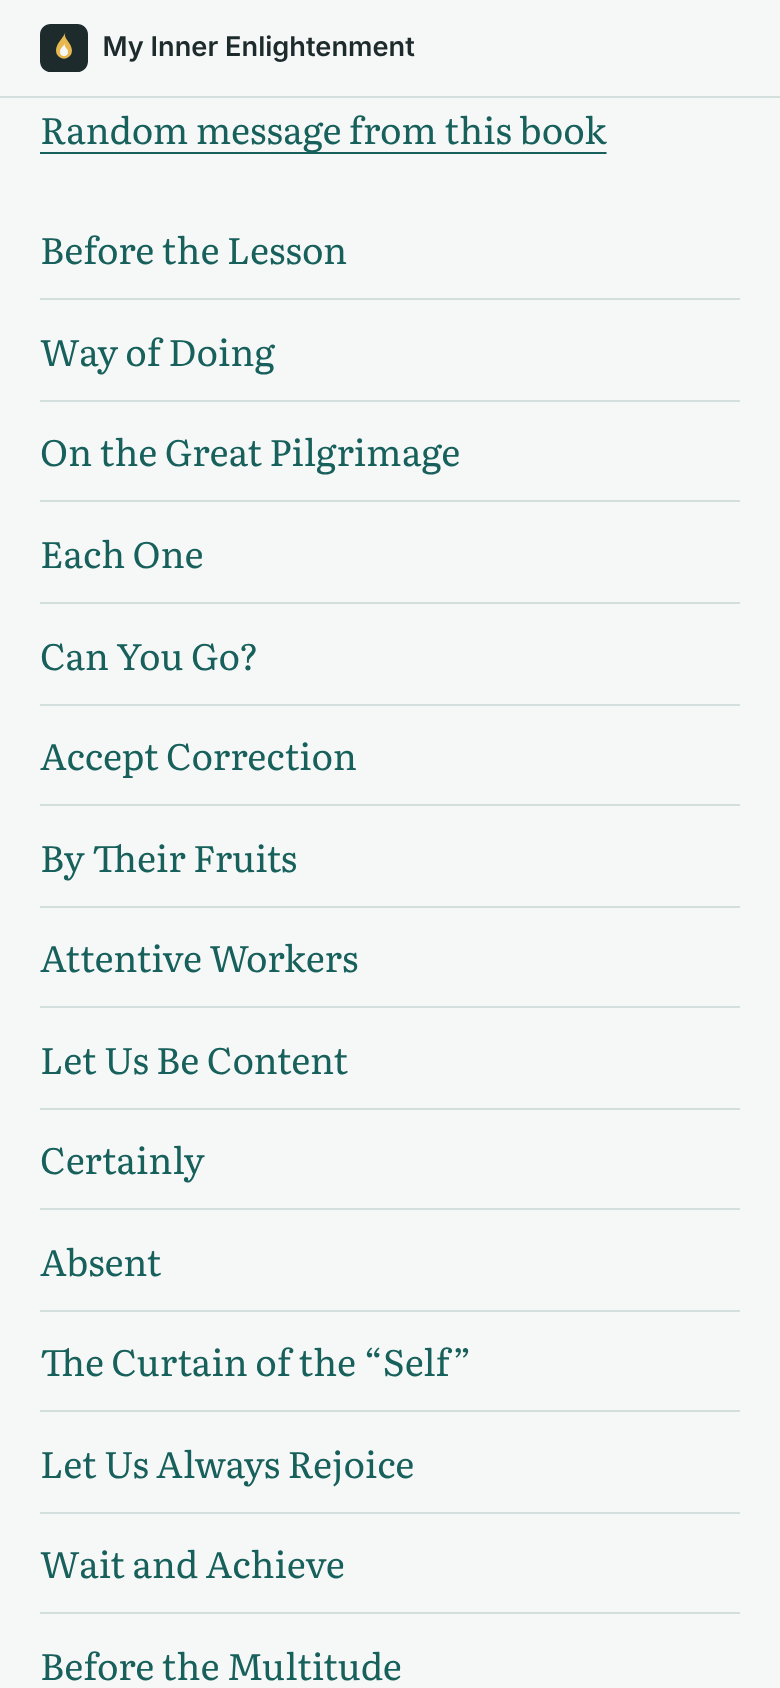
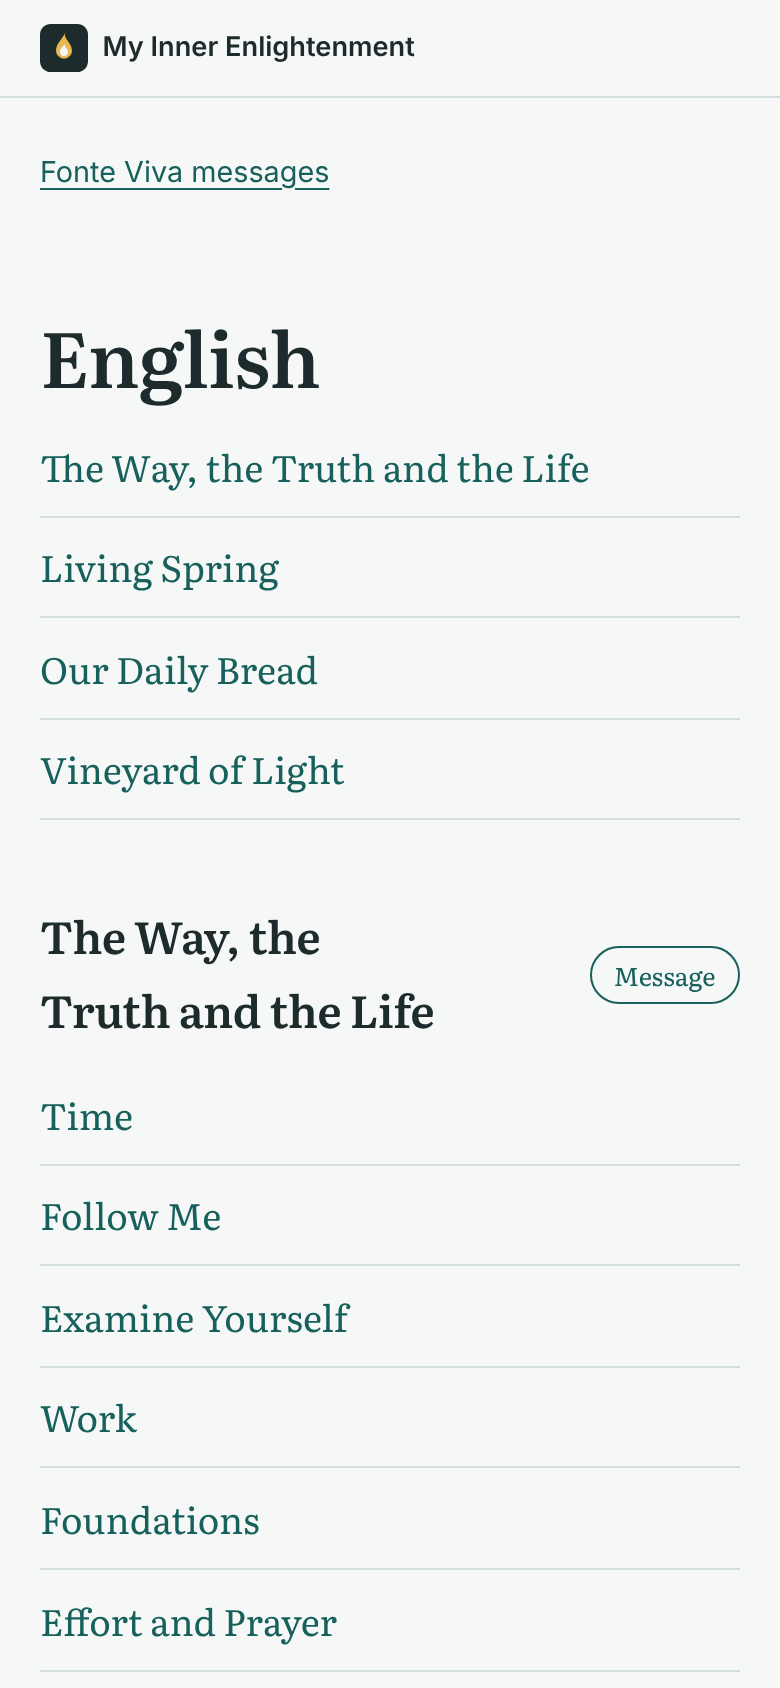
Show a short Message button next to the book name instead of the long random link
Claude-Session: https://claude.ai/code/session_01R4xVcZ5yEyYP9SRpZ91aWh

diff --git a/mobile/App.tsx b/mobile/App.tsx
@@ -330,8 +330,14 @@ export default function App() {
             <Action key={book.slug} title={bookNameIn(settings.language, book.slug)} onPress={() => setIndexBook(book.slug)} main={book.slug === indexBook} />
           ))}
         </View>
-        {indexBook && <Text style={styles.bookTitle}>{bookNameIn(settings.language, indexBook)}</Text>}
-        {indexBook && <Action title={t.randomFromBook} onPress={() => showRandomFromBook(indexBook)} />}
+        {indexBook && (
+          <View style={styles.bookRow}>
+            <Text style={styles.bookTitle}>{bookNameIn(settings.language, indexBook)}</Text>
+            <Pressable accessibilityRole="button" onPress={() => showRandomFromBook(indexBook)} style={styles.randomButton}>
+              <Text style={styles.randomButtonText}>{t.randomMessage}</Text>
+            </Pressable>
+          </View>
+        )}
         {bookMessages.map((m) => (
           <Text
             key={m.id}
@@ -559,6 +565,9 @@ const styles = StyleSheet.create({
   link: { textDecorationLine: 'underline', color: colors.spring },
   disclaimer: { fontSize: 13, color: colors.muted, marginTop: 24 },
   backButton: { marginTop: 32 },
-  bookTitle: { fontFamily: 'Literata_600SemiBold', fontSize: 24, letterSpacing: -0.3, color: colors.ink, marginTop: 36, marginBottom: 8 },
+  bookTitle: { fontFamily: 'Literata_600SemiBold', fontSize: 24, letterSpacing: -0.3, color: colors.ink, flexShrink: 1 },
+  bookRow: { flexDirection: 'row', alignItems: 'center', justifyContent: 'space-between', gap: 12, marginTop: 36, marginBottom: 8 },
+  randomButton: { borderRadius: 16, borderWidth: 1.5, borderColor: colors.spring, paddingVertical: 4, paddingHorizontal: 12 },
+  randomButtonText: { fontSize: 14, fontWeight: '600', color: colors.spring },
   indexItem: { fontFamily: 'Literata_400Regular', fontSize: 18, color: colors.spring, paddingVertical: 14, borderBottomWidth: 1, borderColor: colors.rule },
 });

diff --git a/scripts/build-site.ts b/scripts/build-site.ts
@@ -24,7 +24,7 @@ type Labels = {
   index: string;
   menu: string;
   anotherMessage: string;
-  randomFromBook: string;
+  randomMessage: string;
   readOriginal: string;
   original: string;
   studyGroups: string;
@@ -109,8 +109,8 @@ class Website {
         .filter((m) => m.book === book.slug)
         .map((m) => `<li><a href="${m.slug}/">${escapeHtml(m.title)}</a></li>`)
         .join('\n');
-      const random = `<p><a href="random/${book.slug}/">${escapeHtml(content.labels.randomFromBook)}</a></p>`;
-      return `<h2 id="${book.slug}">${escapeHtml(book.name)}</h2>\n${random}\n<ul>\n${links}\n</ul>`;
+      const random = `<a class="random-button" href="random/${book.slug}/">${escapeHtml(content.labels.randomMessage)}</a>`;
+      return `<div class="book-row"><h2 id="${book.slug}">${escapeHtml(book.name)}</h2>${random}</div>\n<ul>\n${links}\n</ul>`;
     });
     const name = this.names[content.language].name;
     const body = this.render('language', { title: content.labels.title, languageName: name, bookLinks, books: books.join('\n') });
@@ -123,7 +123,7 @@ class Website {
     return this.page(content.language, content.labels.title, '../', this.randomScript(this.slugsOf(content), '../', fallback));
   }
 
-  // The "Random message from this book" link on the language page: opens a random message of that book.
+  // The book's "Message" button on the language page: opens a random message of that book.
   bookRandomPage(content: Content, book: string): string {
     const fallback = `<a href="../../#${book}">${this.names[content.language].name}</a>`;
     const slugs = content.messages.filter((m) => m.book === book).map((m) => m.slug);

diff --git a/website/style.css b/website/style.css
@@ -145,6 +145,11 @@ footer { margin-top: 4rem; border-top: 1px solid var(--rule); padding-top: 1.5re
   nav .another, .menu-items { transition: none; animation: none; }
 }
 
+/* UC-20.9: the "Message" button next to a book's name opens a random message of that book. */
+.book-row { display: flex; align-items: center; justify-content: space-between; gap: 1rem; margin: 2.5rem 0 0.5rem; }
+.book-row h2 { margin: 0; }
+.random-button { padding: 0.2rem 0.7rem; border: 1.5px solid var(--spring); border-radius: 999px; font-size: 0.8rem; text-decoration: none; color: var(--spring); }
+
 /* UC-13: the favourite star next to the message title, and the message when it can't be saved. */
 .title-row { display: flex; align-items: flex-start; gap: 0.5rem; }
 .title-row h1 { flex: 1; }
